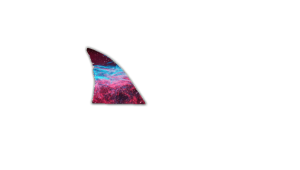
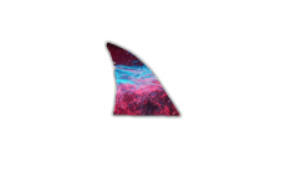
Added instructions to fmri version, condensed behav version and fmri into one file, modified shark PNG details and placement

Changed region(s): [[0.27, 0.2353, 0.63, 0.7059]]

diff --git a/NPL_MBMFtaskPC_final.m b/NPL_MBMFtaskPC_final.m
@@ -2,7 +2,7 @@
 function [choice1, choice2, state, pos1, pos2, money, totalwon, rts1, rts2, ...
     stim1_ons_sl, stim1_ons_ms, choice1_ons_sl, choice1_ons_ms, ...
     stim2_ons_sl, stim2_ons_ms, choice2_ons_sl, choice2_ons_ms, ...
-    rew_ons_sl, rew_ons_ms, payoff] = NPL_MBMFtaskPC_fmri(name, contingency, pre_total, w)
+    rew_ons_sl, rew_ons_ms, payoff, attack, warnings] = NPL_MBMFtaskPC_final(name, contingency, pre_total, w)
 %MBMFtask
 % sequential choice expt
 % ND, October 2006
@@ -29,13 +29,11 @@ keyback = KbName('z');
 % FlipInterval = Screen('GetFlipInterval',w); %monitor refresh rate.
 % slack = FlipInterval/2; %used for minimizing accumulation of lags due to vertical refresh
 
-%FOR DEBUG purposes only, w should be populated from tutorial!
-if (nargin<4)
-    %Try this out hoping it works!
+%If window doesn't exist already create it
+if (~exist('w', 'var'))
     Pix_SS = get(0,'screensize');
     screenResolution=Pix_SS(3:end);
     [ w, windowRect ] = Screen('OpenWindow', max(Screen('Screens')),[ 0 0 0], [0 0 screenResolution] );
-    %w=Screen('OpenWindow',0,[0 0 0]);
 end
 totaltrials=200;    %total number of trials in the task
 transprob =.85;    % probability of 'correct' transition
@@ -53,6 +51,10 @@ boxypos = ycenter+50;
 
 moneyypos = ycenter-round(75/2)-200;
 moneyxpos = xcenter-round(75/2);
+
+leftposvect = [leftpos boxypos leftpos+300 boxypos+300];
+rightposvect = [rightpos boxypos rightpos+300 boxypos+300];
+posvect = [leftposvect; rightposvect];
 
 animxpos = 0:50:250;
 animypos = 0:50:250;
@@ -105,7 +107,7 @@ if totaltrials - b(length(b)) < round(totaltrials/(numbreaks+1))*0.5
     b(length(b)) = [];
 end
 
-inmri = 0;  % set to 1 to time everything to slices
+inmri = 0;  % set to 1 if subject is in the scanner
 
 % if inmri
 %     % right handed button box
@@ -119,11 +121,16 @@ escKey  = KbName('ESCAPE');
 caretKey = KbName('6^'); %used for scanner trigger
 equalsKey = KbName('=+'); %used for scanner trigger
 
-%Right button glove is 1-5! (According to clock task)
-keyleft = KbName('7&');%[u]
-keyright = KbName('2@');%[i]
-% end
-
+if inmri
+    %Right button glove is 1-5! (According to clock task)
+    keyleft = KbName('7&');%[u]
+    keyright = KbName('2@');%[i]
+    % end
+else
+    keyleft = KbName('1!');%[u]
+    keyright = KbName('0)');%[i]
+end
+    
 numrewardedtrials = round(totaltrials/3);
 
 % enter subject details Shouldn't be necessary now
@@ -272,7 +279,7 @@ planetP = imread('behav/purpleplanet.jpg');
 cosmic_shark = imread('behav/cosmic_shark.png');
 [shark_fin,~,alpha]  = imread('behav/fin_final.png');
 shark_fin(:,:,4) = alpha(:,:);
-shark_fin_rev = flipdim(shark_fin ,2);
+shark_fin_rev = flip(shark_fin ,2);
 galaxy_img = imread('behav/Spiral_galaxy.jpg');
 safe_scrn = imread('behav/Safe_screen.png');
 
@@ -311,13 +318,15 @@ rew_ons_ms = zeros(1,totaltrials);      % onset of outcome, ms
 
 % initial wait
 
-if (inmri)
-    nslices=36;                  %number of slices
-    slicewait=5*nslices+1;       %sets initial slicewait to accomodate 5 dummy volumes
-else
+%Not sure about this line of code here, I think syncScannerPulse already
+%accounts for the dummy slices?
+% if (inmri)
+%     nslices=36;                  %number of slices
+%     slicewait=5*nslices+1;       %sets initial slicewait to accomodate 5 dummy volumes
+% else
     slicewait = ceil(0 / 90); %set initial slicewait to now - but time is
     %since cogent was called, which was a few lines ago...?
-end
+% end
 
 jitter_time = 1.5; %default 1.5 seconds, we can change this to be an array
 %which is indexed via totaltrials, the eact time of the jitters will depend
@@ -354,29 +363,100 @@ logfile = fopen([name '_' date '.txt'], 'w');
 fprintf(logfile,'\ntrial\tchoice1\trts1\tstim1ons_sl\tstim1ons_ms\tchoice1ons_sl\tchoice1ons_ms\tstate\tchoice2\trts2\tstim2ons_sl\tstim2ons_ms\tchoice2ons_sl\tchoice2ons_ms\tSC_ID\twon\tcontingency\n');
 %oldfprintf(logfile,'\ntrial choice1   rts1   stim1ons_sl   stim1ons_ms   choice1ons_sl   choice1ons_ms   state   choice2   rts2   stim2ons_sl   stim2ons_ms   choice2ons_sl   choice2ons_ms   won\n\n');
 
-
-%% BEGIN TASK AFTER SYNC OBTAINED FROM SCANNER
-FlipInterval = Screen('GetFlipInterval',w); %monitor refresh rate.
-slack = FlipInterval/2;
-
-
-[scannerStart, priorFlip] = scannerPulseSync;
-
-fprintf('pulse flip: %.5f\n', priorFlip);
-
-%initial fixation of 3 seconds to allow for steady state magnetization.
-%count down from 3 to 1, then a 1-second blank screen.
-%priorFlip = fixation(preStartWait - 4.0, 1, scannerStart);
-
-%fprintf('fix flip: %.5f\n', priorFlip);
-
-for cdown = 1:3
-    DrawFormattedText(w, ['Beginning in\n\n' num2str(4.0 - cdown)],'center','center',white);
-    priorFlip = Screen('Flip', w, scannerStart + 4.0 + (cdown - 1.0) - slack);
-    %fprintf('cdown: %d, fix flip: %.5f\n', cdown, priorFlip);
-    %WaitSecs(1.0);
+%Add in optional instructions here...just for fmri version!?
+if inmri
+    DrawFormattedText(w,'Let''s Recap.','center', round(ytext),[],wrap);
+    Screen('Flip',w);
+    KbWait([],2);
+    
+    Screen('DrawTexture',w,earth,[],[]); %draw background planet
+    Screen('DrawTexture',w,s(1,1).norm,[],leftposvect);
+    Screen('DrawTexture',w,s(1,2).norm,[],rightposvect);
+    DrawFormattedText(w,['Use your left index finger. \n\n\n' 'to choose options on the left.'],'center', round(ytext),[],wrap);
+    Screen('Flip',w);
+    KbWait([],2);
+    
+    
+    Screen('DrawTexture',w,earth,[],[]); %draw background planet
+    Screen('DrawTexture',w,s(1,1).norm,[],leftposvect);
+    Screen('DrawTexture',w,s(1,2).norm,[],rightposvect);
+    DrawFormattedText(w,['Use your right index finger. \n\n\n' 'to choose options on the right.'],'center', round(ytext),[],wrap);
+    Screen('Flip',w);
+    KbWait([],2);
+    
+    Screen('DrawTexture',w,earth,[],[]); %draw background planet
+    Screen('DrawTexture',w,s(1,1).norm,[],leftposvect);
+    Screen('DrawTexture',w,s(1,2).norm,[],rightposvect);
+    DrawFormattedText(w,['First you will choose a rocket.'],'center', round(ytext),[],wrap);
+    Screen('Flip',w);
+    KbWait([],2);
+    
+    Screen('DrawTexture',w,planetR,[],[]); %draw background planet
+    Screen('DrawTexture',w,s(2,1).norm,[],leftposvect);
+    Screen('DrawTexture',w,s(2,2).norm,[],rightposvect);
+    DrawFormattedText(w,['Then you will choose and alien.'],'center', round(ytext),[],wrap);
+    Screen('Flip',w);
+    KbWait([],2);
+    
+    DrawFormattedText(w,['After you choose an alien, \n\n' 'you may get treasure.' ],'center',ytext,[],wrap);
+    Screen('DrawTexture',w,moneypic,[],[]); %draw background planet
+    Screen('Flip',w);
+    KbWait([],2);
+    
+    %Explain No Treasure
+    DrawFormattedText(w,'Or no treasure.','center',ytext,[],wrap);
+    Screen('Flip',w);
+    KbWait([],2);
+    DrawFormattedText(w,'Or no treasure.','center',ytext,[],wrap);
+    Screen('DrawTexture',w,losepic,[],[]); %draw background planet
+    Screen('Flip',w);
+    KbWait([],2);
+    
+    DrawFormattedText(w,'Rockets will also begin to switch sides. \n\n Be sure to pay close attention.','center', round(ytext),[],wrap);
+    Screen('Flip',w);
+    KbWait([],2);
+    
+    DrawFormattedText(w,'The position of the rocket does not matter, \n\n only the rocket itself matters','center', round(ytext),[],wrap);
+    Screen('Flip',w);
+    KbWait([],2);
+    
+        DrawFormattedText(w,'Lets''s get started','center', round(ytext),[],wrap);
+    Screen('Flip',w);
+    KbWait([],2);
+    
+        DrawFormattedText(w,'Waiting for scanner pulse...','center', round(ytext),[],wrap);
+    Screen('Flip',w);
+    KbWait([],2);
 end
 
+
+
+
+
+%% BEGIN TASK AFTER SYNC OBTAINED FROM SCANNER
+if inmri
+    FlipInterval = Screen('GetFlipInterval',w); %monitor refresh rate.
+    slack = FlipInterval/2;
+    
+    
+    [scannerStart, priorFlip] = scannerPulseSync;
+    
+    fprintf('pulse flip: %.5f\n', priorFlip);
+    
+    %initial fixation of 3 seconds to allow for steady state magnetization.
+    %count down from 3 to 1, then a 1-second blank screen.
+    %priorFlip = fixation(preStartWait - 4.0, 1, scannerStart);
+    
+    %fprintf('fix flip: %.5f\n', priorFlip);
+    
+    for cdown = 1:3
+        DrawFormattedText(w, ['Beginning in\n\n' num2str(4.0 - cdown)],'center','center',white);
+        priorFlip = Screen('Flip', w, scannerStart + 4.0 + (cdown - 1.0) - slack);
+        %fprintf('cdown: %d, fix flip: %.5f\n', cdown, priorFlip);
+        %WaitSecs(1.0);
+    end
+    
+end
 
 % % Pre-Start screen
 % DrawFormattedText(w,'Press any key to begin',...
@@ -478,7 +558,7 @@ for trial = 1:totaltrials
     % second level
     level=1;
     [choice2(trial), rts2(trial),stim2_ons_sl(trial),stim2_ons_ms(trial),choice2_ons_sl(trial),choice2_ons_ms(trial),chpos,stimleft,stimright] = ...
-        halftrial(planetpic, s(state(trial),:), pos2(trial),w,[],level, lastChoice); %Swap is hard coded to 0
+        halftrial(planetpic, s(state(trial),:), pos2(trial),w,[],level, lastChoice); 
     
     % record second choice in log
     fprintf(logfile,'\t%d\t%d\t%f\t%f\t%f\t%f\t%f\t%s\t%d',state(trial),choice2(trial),rts2(trial),...

diff --git a/NPL_MBMFPC.m b/NPL_MBMFPC.m
@@ -3,48 +3,40 @@
 %The MBMF versions are basically the same, except for redundancy removal so
 %they can be run without a break in between.
 %
+global inmri
 
 %SacklerNumber=input('Subject''s Sackler ID? ','s');
 % enter subject details
 name=input('Subject''s ID? (Please enter 5 numbers (ex 09999)):  ', 's');
-
-%This info is not needed
-% gender = [];
-% while (strcmp(gender,'m')==0 && strcmp(gender,'f')==0)
-%     gender = input('Subject''s Gender? (m or f): ','s');
-% end
-% dob = input('Subject''s Date of Birth? (YYYY-MM-DD ex:1986-09-25):  ', 's');
-% ageV = datevec(datenum(date)-datenum(dob));
-% age = ageV(1) + ageV(2)/12 + ageV(3)/365;
 
 contingency =0;
 while ismember(contingency, [1 2])==0
     contingency = input('Which version would you like to run (1 or 2): ');
 end
 
-fmri =0;
-while ismember(fmri, [1 2])==0
-    fmri = input('Is this and fMRI scan (yes=1 or no=2): ');
+inmri =99;
+while ismember(inmri, [1 0])==0
+    inmri = input('Is this and fMRI scan (yes=1 or no=0): ');
 end
 
 [window, choice1, choice2, state, pos1, pos2, money, rts1, rts2, total_before_scanner]=MBMFtutorialPC_short();
 save([name '_' num2str(now*1000,9) '_tutorial'], 'choice1', 'choice2', 'state', 'pos1', 'pos2', 'money', 'rts1', 'rts2', 'contingency')
 
 %If not an frmi scan run the behav. version
-if fmri==1
+% if inmri==1
     [choice1, choice2, state, pos1, pos2, money, totalwon, rts1, rts2, stim1_ons_sl, ...
     stim1_ons_ms, choice1_ons_sl, choice1_ons_ms, stim2_ons_sl, ...
     stim2_ons_ms, choice2_ons_sl, choice2_ons_ms, rew_ons_sl, ...
-    rew_ons_ms, payoff] = NPL_MBMFtaskPC_fmri(name, contingency,total_before_scanner, window);
-else
-[choice1, choice2, state, pos1, pos2, money, totalwon, rts1, rts2, stim1_ons_sl, ...
-    stim1_ons_ms, choice1_ons_sl, choice1_ons_ms, stim2_ons_sl, ...
-    stim2_ons_ms, choice2_ons_sl, choice2_ons_ms, rew_ons_sl, ...
-    rew_ons_ms, payoff] = NPL_MBMFtaskPC(name, contingency,total_before_scanner, window);
-end
+    rew_ons_ms, payoff, attack, warnings] = NPL_MBMFtaskPC_final(name, contingency,total_before_scanner, window);
+% else
+% [choice1, choice2, state, pos1, pos2, money, totalwon, rts1, rts2, stim1_ons_sl, ...
+%     stim1_ons_ms, choice1_ons_sl, choice1_ons_ms, stim2_ons_sl, ...
+%     stim2_ons_ms, choice2_ons_sl, choice2_ons_ms, rew_ons_sl, ...
+%     rew_ons_ms, payoff, attack, warnings] = NPL_MBMFtaskPC(name, contingency,total_before_scanner, window);
+% end
 
 save(['_', name '_' num2str(now*1000,9) '_onsets'], 'choice1', 'choice2', 'state', ...
     'pos1', 'pos2', 'money', 'totalwon', 'rts1', 'rts2', 'stim1_ons_sl', 'stim1_ons_ms', ...
     'choice1_ons_sl', 'choice1_ons_ms', 'stim2_ons_sl', 'stim2_ons_ms', ...
     'choice2_ons_sl', 'choice2_ons_ms', 'rew_ons_sl', 'rew_ons_ms', ...
-    'name', 'payoff', 'contingency')
+    'name', 'payoff', 'contingency', 'attack', 'warnings')

diff --git a/halftrial.m b/halftrial.m
@@ -26,7 +26,7 @@ Screen('DrawTexture',window,stimleft.norm,[],[leftpos boxypos leftpos+300 boxypo
 Screen('DrawTexture',window,stimright.norm,[],[rightpos boxypos rightpos+300 boxypos+300]);
 
 if shark_attack_block
-    Screen('DrawTexture',window,stimleft.shark,[],[660 450 960 620]);
+    Screen('DrawTexture',window,stimleft.shark,[],[leftpos+400-150 boxypos+50 leftpos+400+150 boxypos+50+170]);
 end
 
 %GetRidofTHisMaybe
